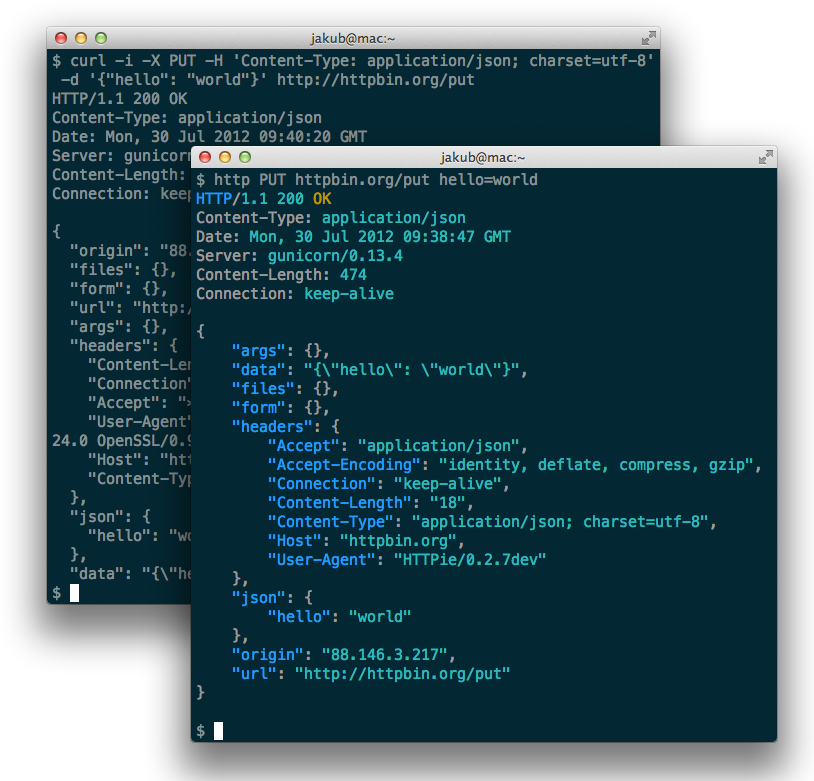
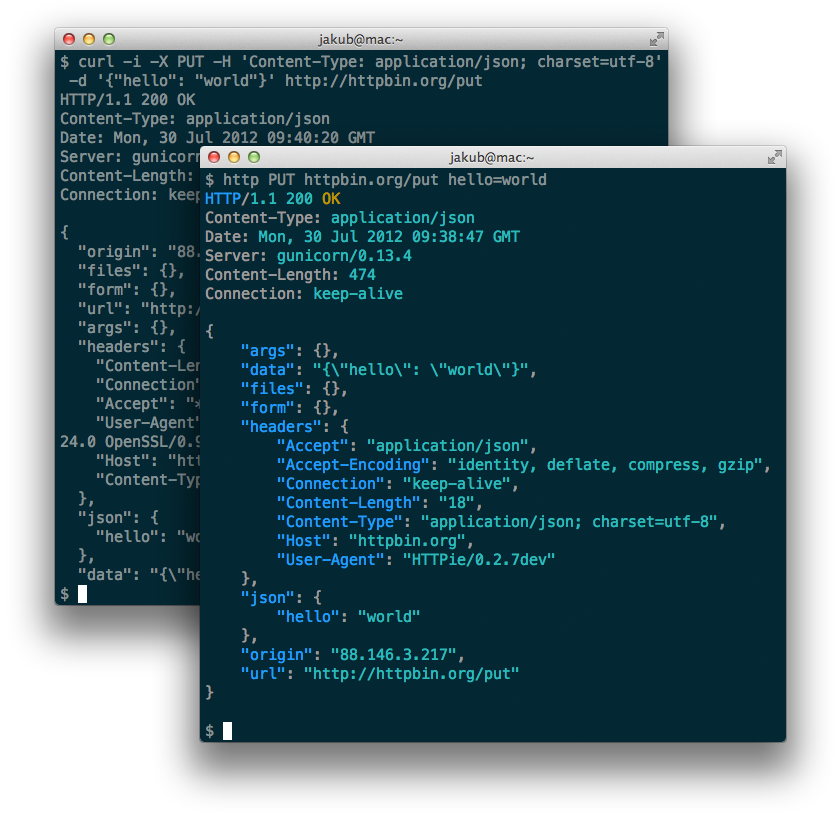
cleanup

diff --git a/httpie/output.py b/httpie/output.py
@@ -28,7 +28,7 @@ BINARY_SUPPRESSED_NOTICE = (
 
 def format(msg, prettifier=None, with_headers=True, with_body=True,
            env=Environment()):
-    """Return a UTF8-encoded representation of a `models.HTTPMessage`.
+    """Return `bytes` representation of a `models.HTTPMessage`.
 
     Sometimes the body contains binary data so we always return `bytes`.
 
@@ -36,9 +36,9 @@ def format(msg, prettifier=None, with_headers=True, with_body=True,
     body is not included in the output and is replaced with notice.
 
     Generally, when the `stdout` is redirected, the output matches the actual
-    message as much as possible. When `--pretty` set (or implied),
-    or when the output is a terminal, then we prefer readability over
-    precision.
+    message as much as possible (formatting and character encoding-wise).
+    When `--pretty` is set (or implied),  or when the output is a terminal,
+    then we prefer readability over precision.
 
     """
 

diff --git a/README.rst b/README.rst
@@ -373,6 +373,7 @@ Changelog
 =========
 
 * `0.2.7dev`_
+    * Updated Solarized color scheme.
     * Windows: Added ``--output FILE`` to store output into a file
       (piping results into corrupted data on Windows).
     * Proper handling of binary requests and responses.
